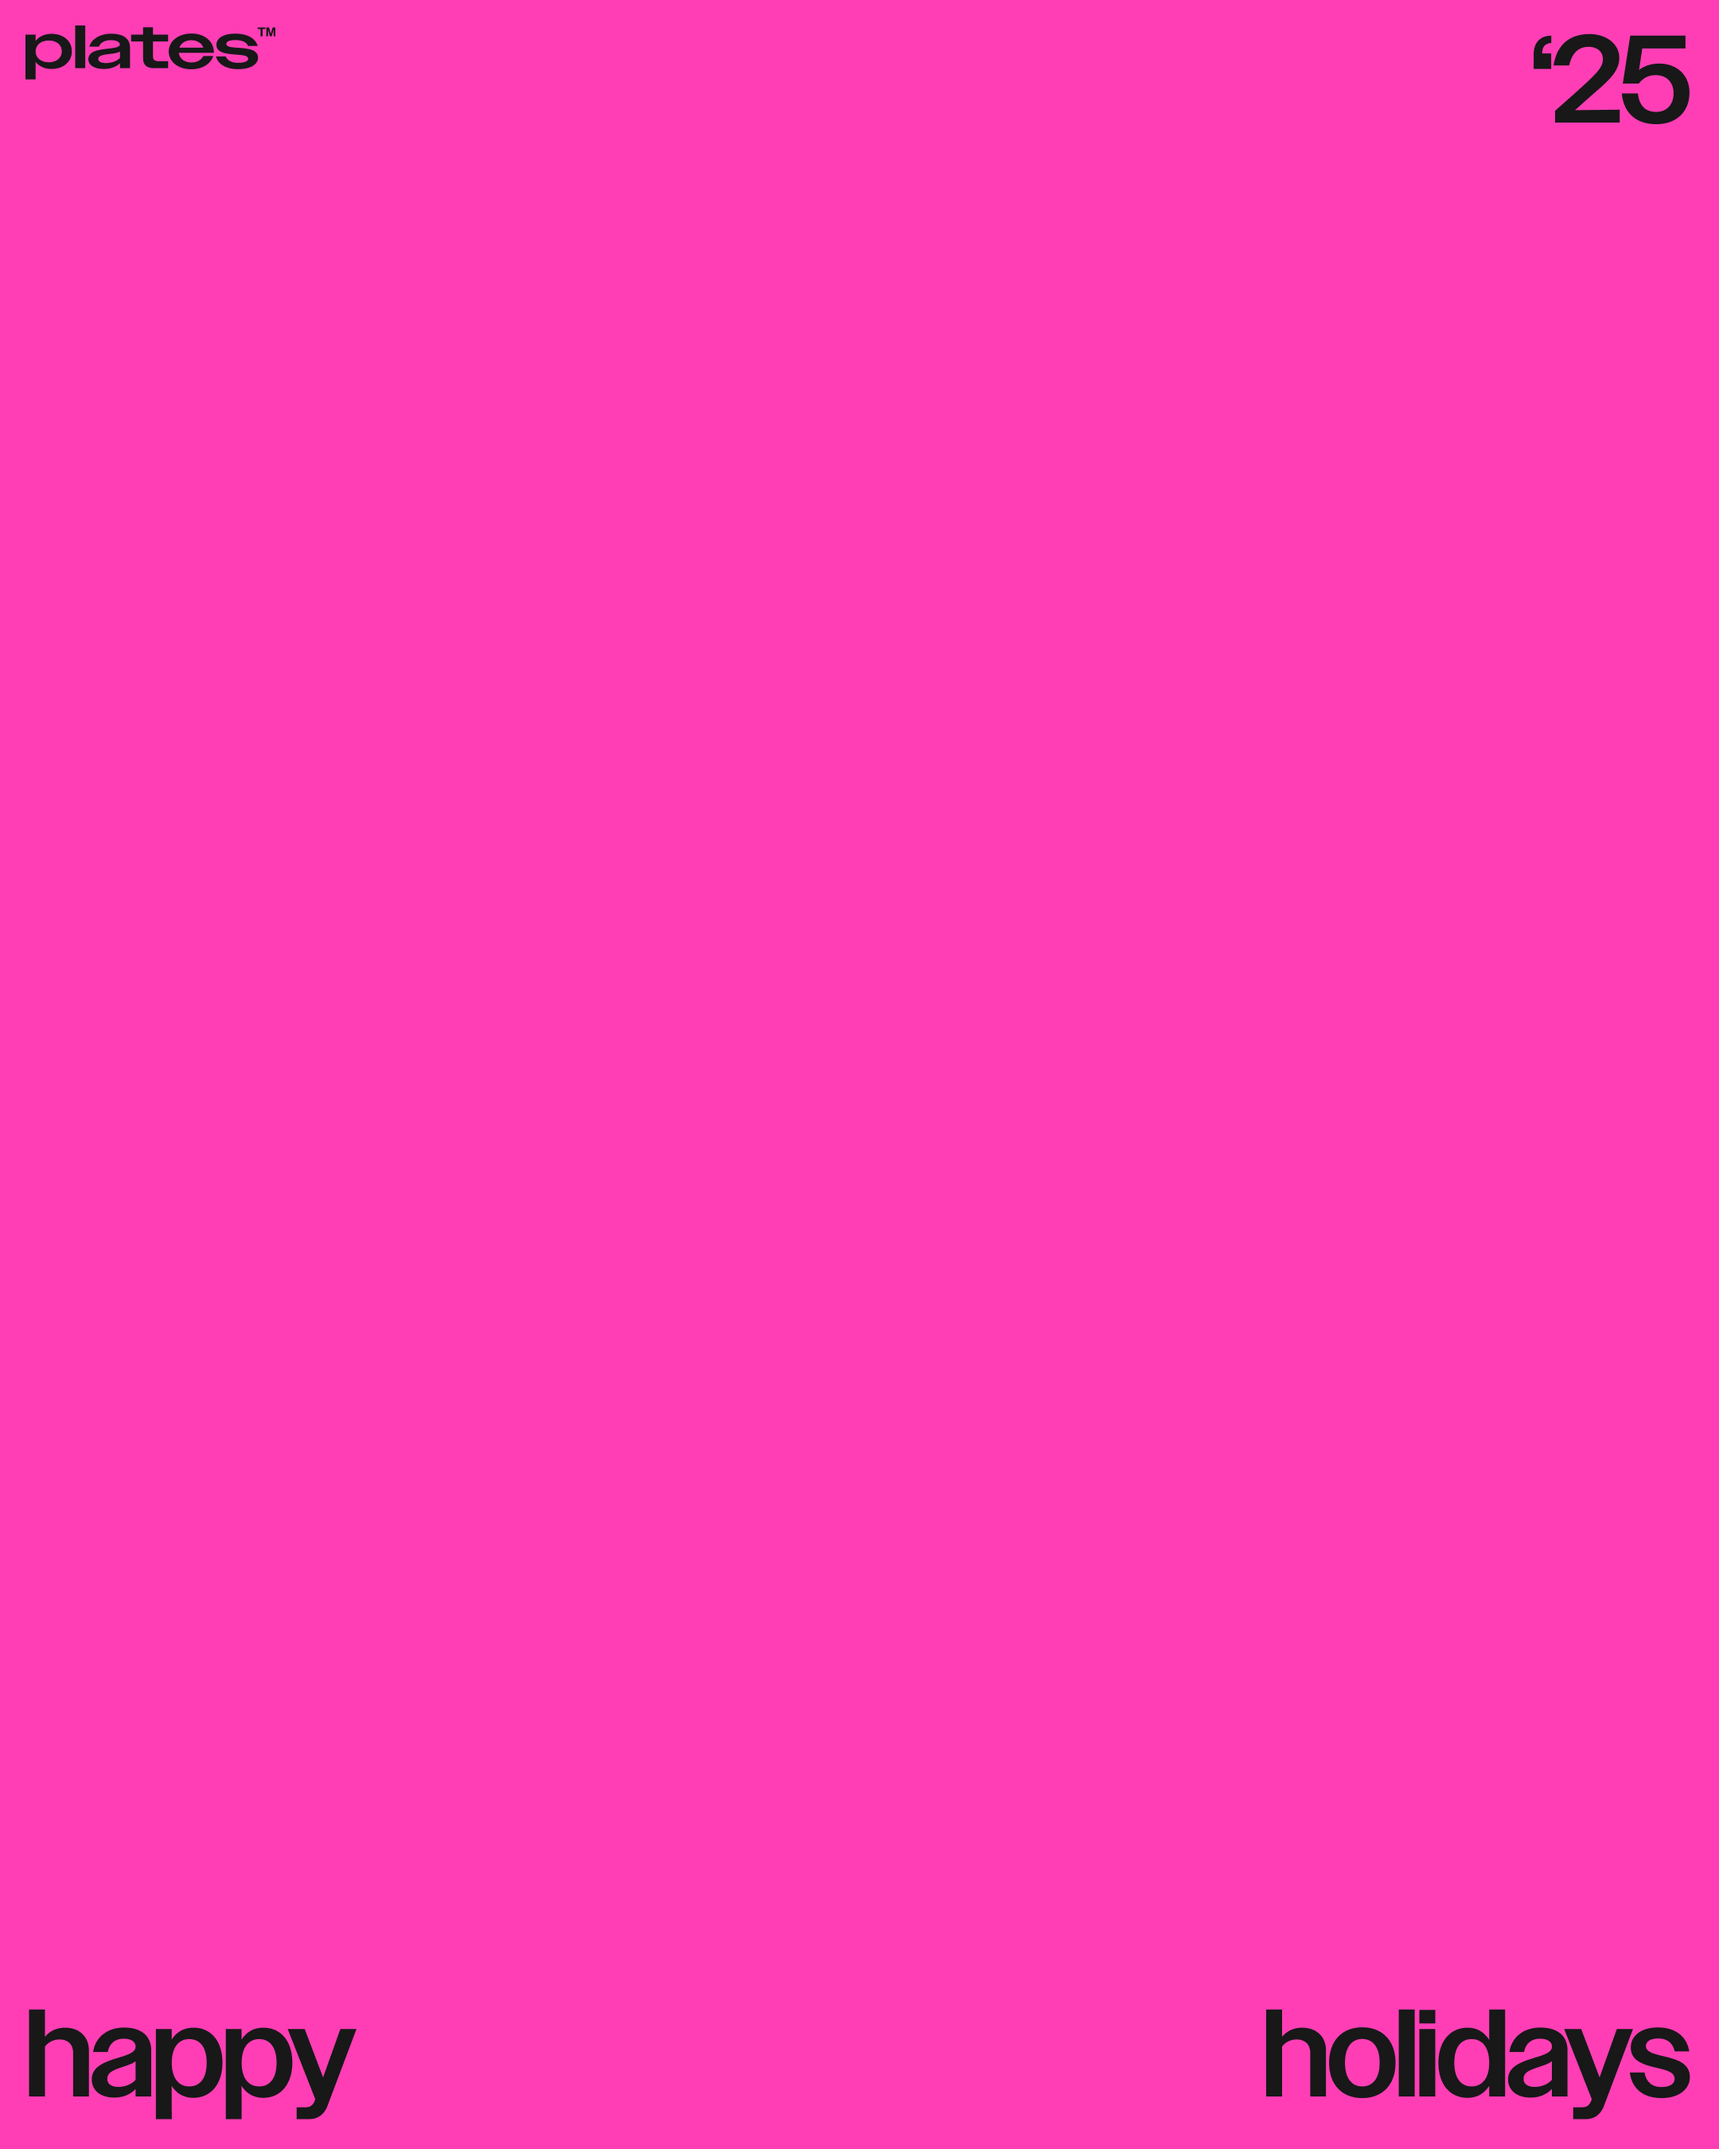
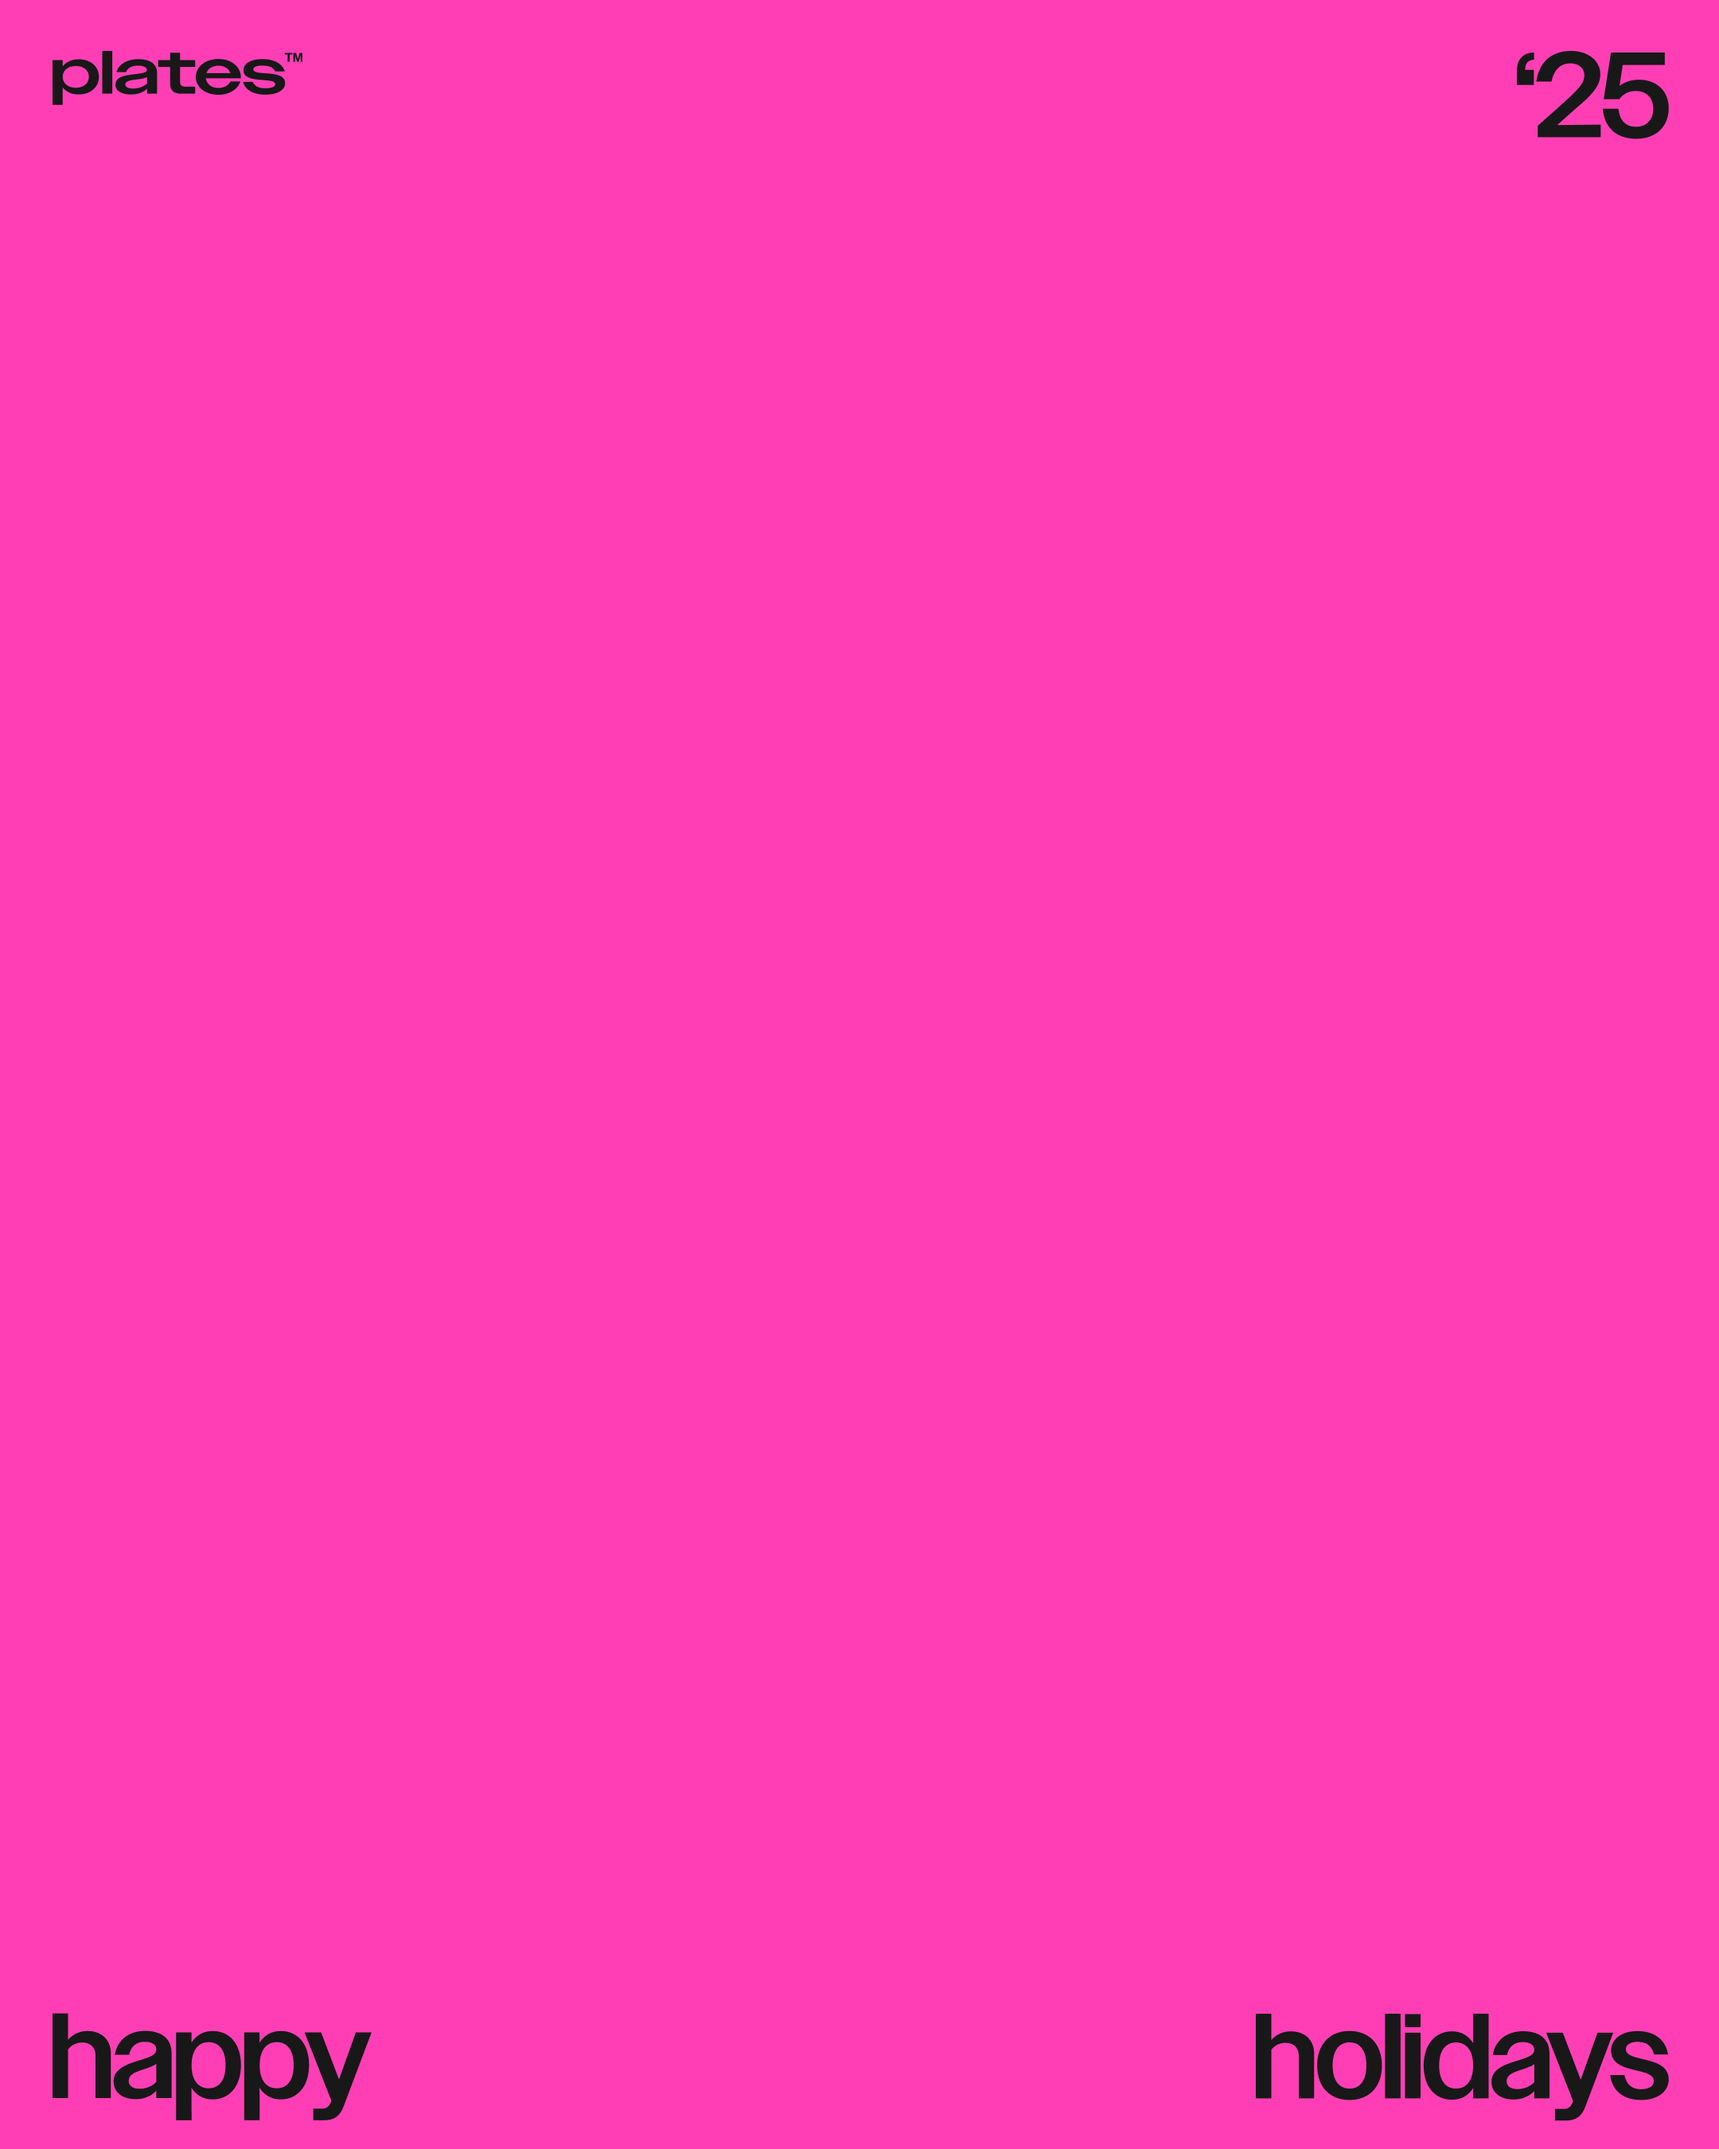
squashing bugs (6)
Updated margins, updated card asset

diff --git a/experiments/emergence/style.css b/experiments/emergence/style.css
@@ -116,7 +116,7 @@ body{
 /* Right controls column */
 .controls{
   position: fixed;
-  right: var(--edge-desktop);
+  right: 12px;
   top: var(--edge-desktop);
   bottom: var(--edge-desktop);
   z-index: 10;
@@ -341,7 +341,7 @@ body.info-open .icon-info{
 #btn-info-close{
   position: fixed;
   top: var(--edge-desktop);
-  right: var(--edge-desktop);
+  right: 12px;
   z-index: 60;
   pointer-events: auto;
 }

diff --git a/experiments/emergence/snowflake.js b/experiments/emergence/snowflake.js
@@ -672,7 +672,14 @@ function saveHolidayCard(){
   // 3) Composite snowflake centered on the card
   pgCard.push();
   pgCard.imageMode(CENTER);
-  pgCard.image(pgSnow, CARD_W/2, CARD_H/2);
+ const cardSnowScale = 0.90; // ← tweak this
+  pgCard.image(
+    pgSnow,
+    CARD_W/2,
+    CARD_H/2,
+    EXPORT_SIZE * cardSnowScale,
+    EXPORT_SIZE * cardSnowScale
+  );
   pgCard.pop();
 
   // 4) Save
